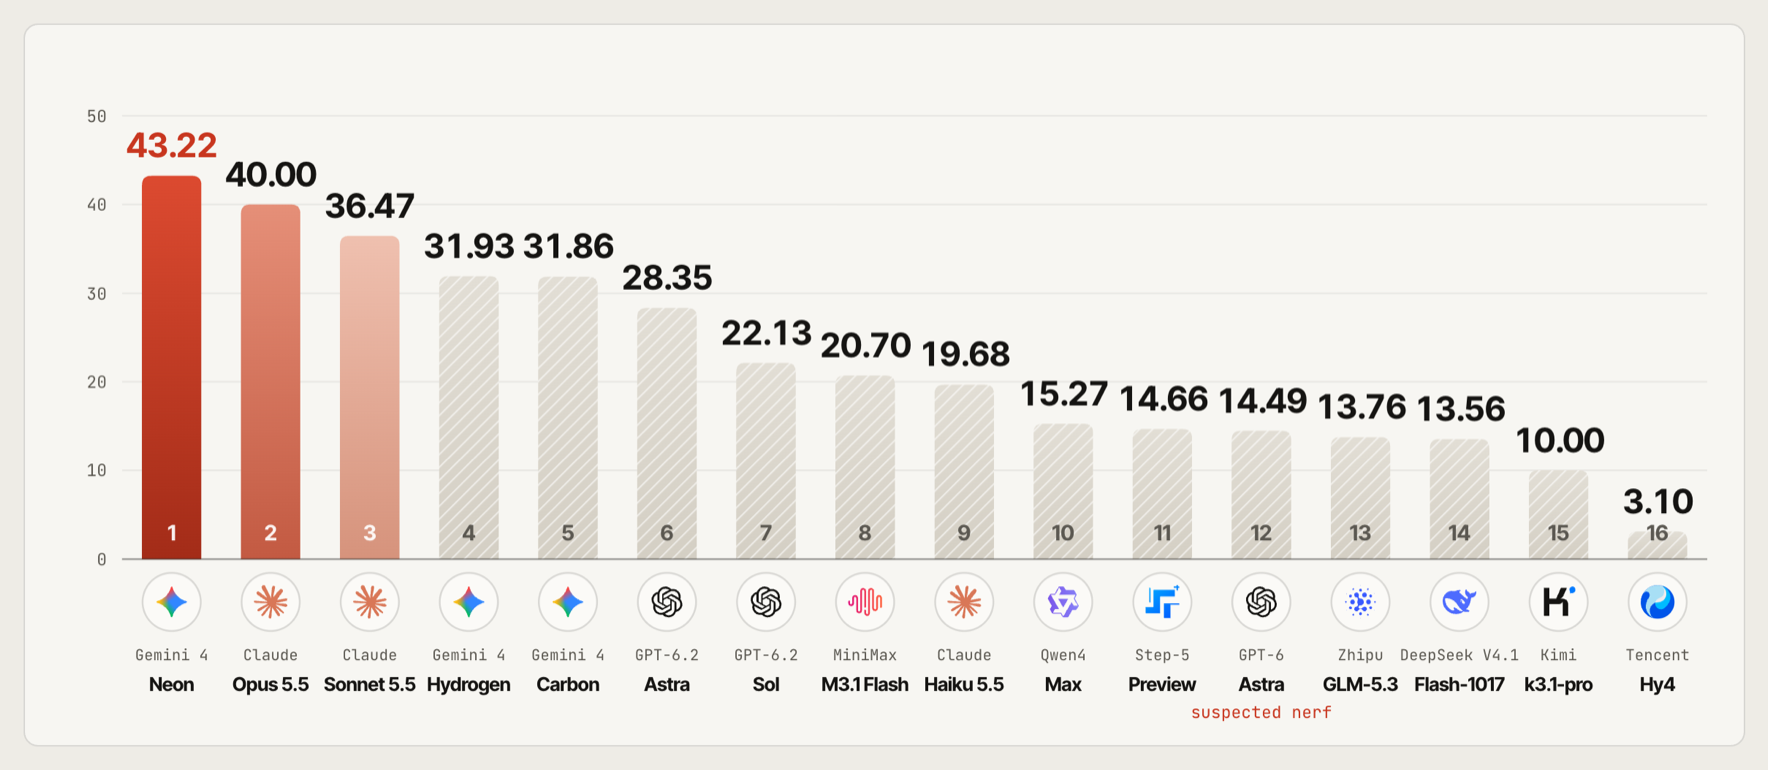
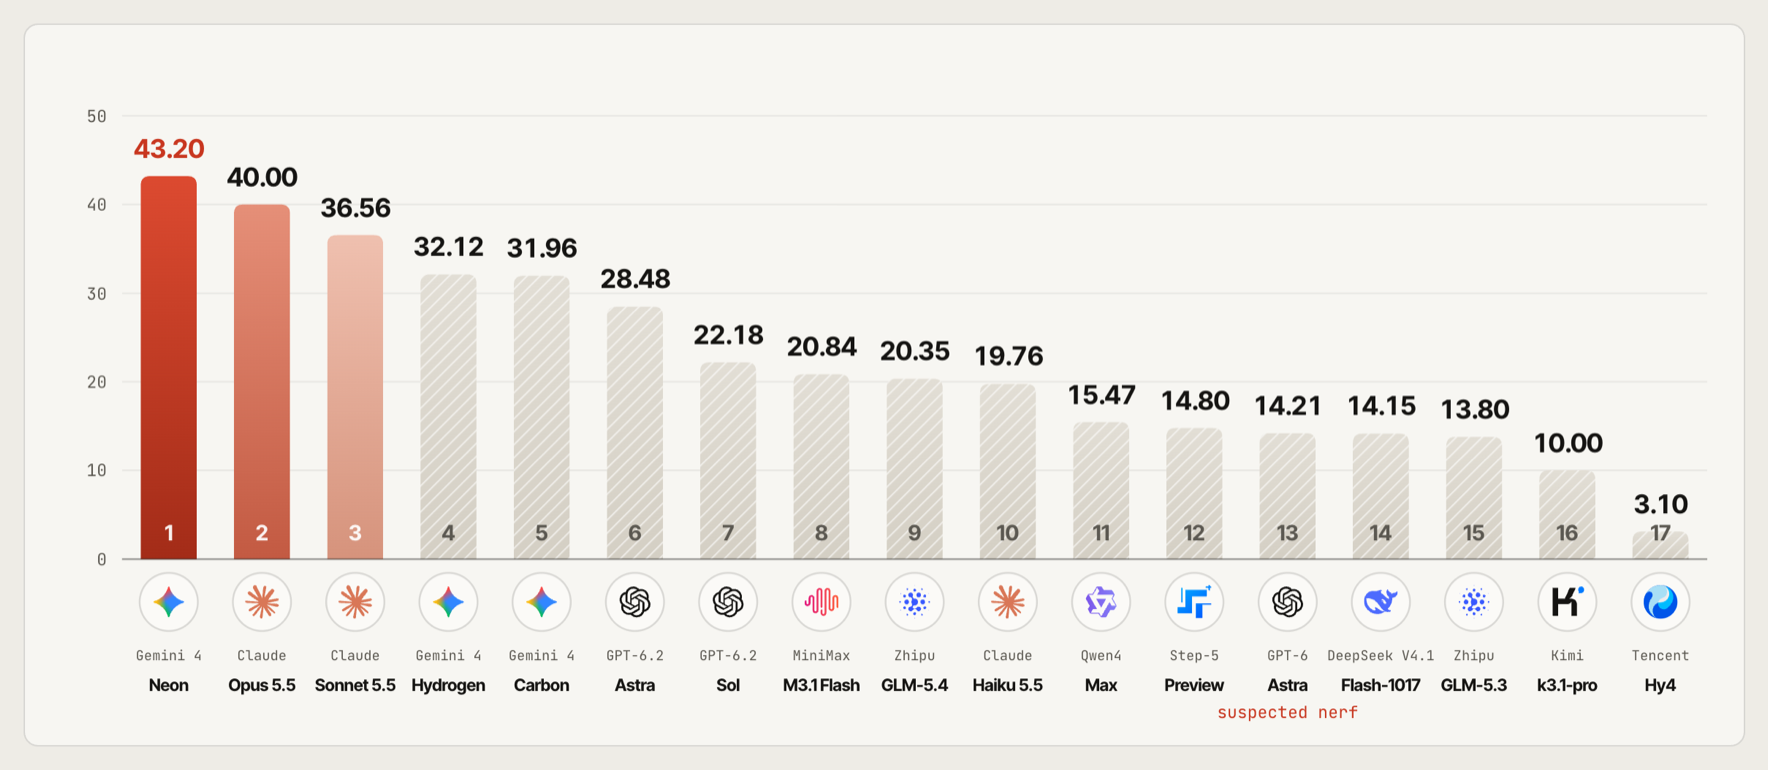
docs: refresh the RSI-Infra Bench leaderboard figure (17 models)

diff --git a/README.md b/README.md
@@ -178,9 +178,9 @@ Open a domain for the workloads, or the reports for experiment settings and vali
 
 <a href="https://github.com/DAGroup-PKU/ResearchBoost-Agent/tree/bench"><img src="docs/assets/readme/bench-banner-en.jpg" alt="RSI-Infra Bench: how much faster can an agent make real training?" width="100%"></a>
 
-RBA's frozen judge, turned into a benchmark for the agents themselves. **[RSI-Infra Bench](https://github.com/DAGroup-PKU/ResearchBoost-Agent/tree/bench)** gives a coding agent a real training workload, 1–4 Hopper GPUs and ten hours; the judge accepts only the same training, faster. The preview has eight tasks and 16 models and runs on [Harbor](https://pypi.org/project/harbor/0.24.0/).
+RBA's frozen judge, turned into a benchmark for the agents themselves. **[RSI-Infra Bench](https://github.com/DAGroup-PKU/ResearchBoost-Agent/tree/bench)** gives a coding agent a real training workload, 1–4 Hopper GPUs and ten hours; the judge accepts only the same training, faster. The preview has eight tasks and 17 models and runs on [Harbor](https://pypi.org/project/harbor/0.24.0/).
 
-<a href="https://ai4ai-for-anything.github.io/blog/rsi-infra-bench/leaderboard/index.html"><img src="docs/assets/readme/bench-leaderboard-en.png" alt="RSI-Infra Bench preview, overall score (ECI; Claude Opus 5.5 = 40, Kimi k3.1-pro = 10): Gemini 4 Neon 43.22, Claude Opus 5.5 40.00, Claude Sonnet 5.5 36.47, Gemini 4 Hydrogen 31.93, Gemini 4 Carbon 31.86, GPT-6.2 Astra 28.35, GPT-6.2 Sol 22.13, MiniMax M3.1 Flash 20.70, Claude Haiku 5.5 19.68, Qwen4-Max 15.27, Step-5 Preview 14.66, GPT-6 Astra (suspected nerf) 14.49, GLM-5.3 13.76, DeepSeek V4.1 Flash-1017 13.56, Kimi k3.1-pro 10.00, Hy4 3.10" width="100%"></a>
+<a href="https://ai4ai-for-anything.github.io/blog/rsi-infra-bench/leaderboard/index.html"><img src="docs/assets/readme/bench-leaderboard-en.png" alt="RSI-Infra Bench preview, overall score (ECI; Claude Opus 5.5 = 40, Kimi k3.1-pro = 10): Gemini 4 Neon 43.20, Claude Opus 5.5 40.00, Claude Sonnet 5.5 36.56, Gemini 4 Hydrogen 32.12, Gemini 4 Carbon 31.96, GPT-6.2 Astra 28.48, GPT-6.2 Sol 22.18, MiniMax M3.1 Flash 20.84, GLM-5.4 20.35, Claude Haiku 5.5 19.76, Qwen4-Max 15.47, Step-5 Preview 14.80, GPT-6 Astra (suspected nerf) 14.21, DeepSeek V4.1 Flash-1017 14.15, GLM-5.3 13.80, Kimi k3.1-pro 10.00, Hy4 3.10" width="100%"></a>
 
 <p align="center">
 <a href="https://github.com/DAGroup-PKU/ResearchBoost-Agent/tree/bench"><img src="docs/assets/readme/button-bench-run-en.png" alt="Benchmark and how to run" height="56"></a>

diff --git a/README.zh-CN.md b/README.zh-CN.md
@@ -178,9 +178,9 @@
 
 <a href="https://github.com/DAGroup-PKU/ResearchBoost-Agent/tree/bench"><img src="docs/assets/readme/bench-banner-en.jpg" alt="RSI-Infra Bench：agent 能让真实训练快多少？" width="100%"></a>
 
-把 RBA 的冻结评测程序变成考 agent 本身的基准。**[RSI-Infra Bench](https://github.com/DAGroup-PKU/ResearchBoost-Agent/tree/bench)** 给编码 agent 一个真实训练任务、1–4 张 Hopper GPU 和 10 小时，评测程序只接受训练不变、速度更快的改动。预览版有 8 道题、16 个模型，基于 [Harbor](https://pypi.org/project/harbor/0.24.0/) 运行。
+把 RBA 的冻结评测程序变成考 agent 本身的基准。**[RSI-Infra Bench](https://github.com/DAGroup-PKU/ResearchBoost-Agent/tree/bench)** 给编码 agent 一个真实训练任务、1–4 张 Hopper GPU 和 10 小时，评测程序只接受训练不变、速度更快的改动。预览版有 8 道题、17 个模型，基于 [Harbor](https://pypi.org/project/harbor/0.24.0/) 运行。
 
-<a href="https://ai4ai-for-anything.github.io/blog/rsi-infra-bench/leaderboard/index.html"><img src="docs/assets/readme/bench-leaderboard-en.png" alt="RSI-Infra Bench 预览版综合分数（ECI；Claude Opus 5.5 = 40，Kimi k3.1-pro = 10）：Gemini 4 Neon 43.22, Claude Opus 5.5 40.00, Claude Sonnet 5.5 36.47, Gemini 4 Hydrogen 31.93, Gemini 4 Carbon 31.86, GPT-6.2 Astra 28.35, GPT-6.2 Sol 22.13, MiniMax M3.1 Flash 20.70, Claude Haiku 5.5 19.68, Qwen4-Max 15.27, Step-5 Preview 14.66, GPT-6 Astra (suspected nerf) 14.49, GLM-5.3 13.76, DeepSeek V4.1 Flash-1017 13.56, Kimi k3.1-pro 10.00, Hy4 3.10" width="100%"></a>
+<a href="https://ai4ai-for-anything.github.io/blog/rsi-infra-bench/leaderboard/index.html"><img src="docs/assets/readme/bench-leaderboard-en.png" alt="RSI-Infra Bench 预览版综合分数（ECI；Claude Opus 5.5 = 40，Kimi k3.1-pro = 10）：Gemini 4 Neon 43.20, Claude Opus 5.5 40.00, Claude Sonnet 5.5 36.56, Gemini 4 Hydrogen 32.12, Gemini 4 Carbon 31.96, GPT-6.2 Astra 28.48, GPT-6.2 Sol 22.18, MiniMax M3.1 Flash 20.84, GLM-5.4 20.35, Claude Haiku 5.5 19.76, Qwen4-Max 15.47, Step-5 Preview 14.80, GPT-6 Astra (suspected nerf) 14.21, DeepSeek V4.1 Flash-1017 14.15, GLM-5.3 13.80, Kimi k3.1-pro 10.00, Hy4 3.10" width="100%"></a>
 
 <p align="center">
 <a href="https://github.com/DAGroup-PKU/ResearchBoost-Agent/tree/bench"><img src="docs/assets/readme/button-bench-run-zh.png" alt="基准与运行方法（英文）" height="56"></a>
